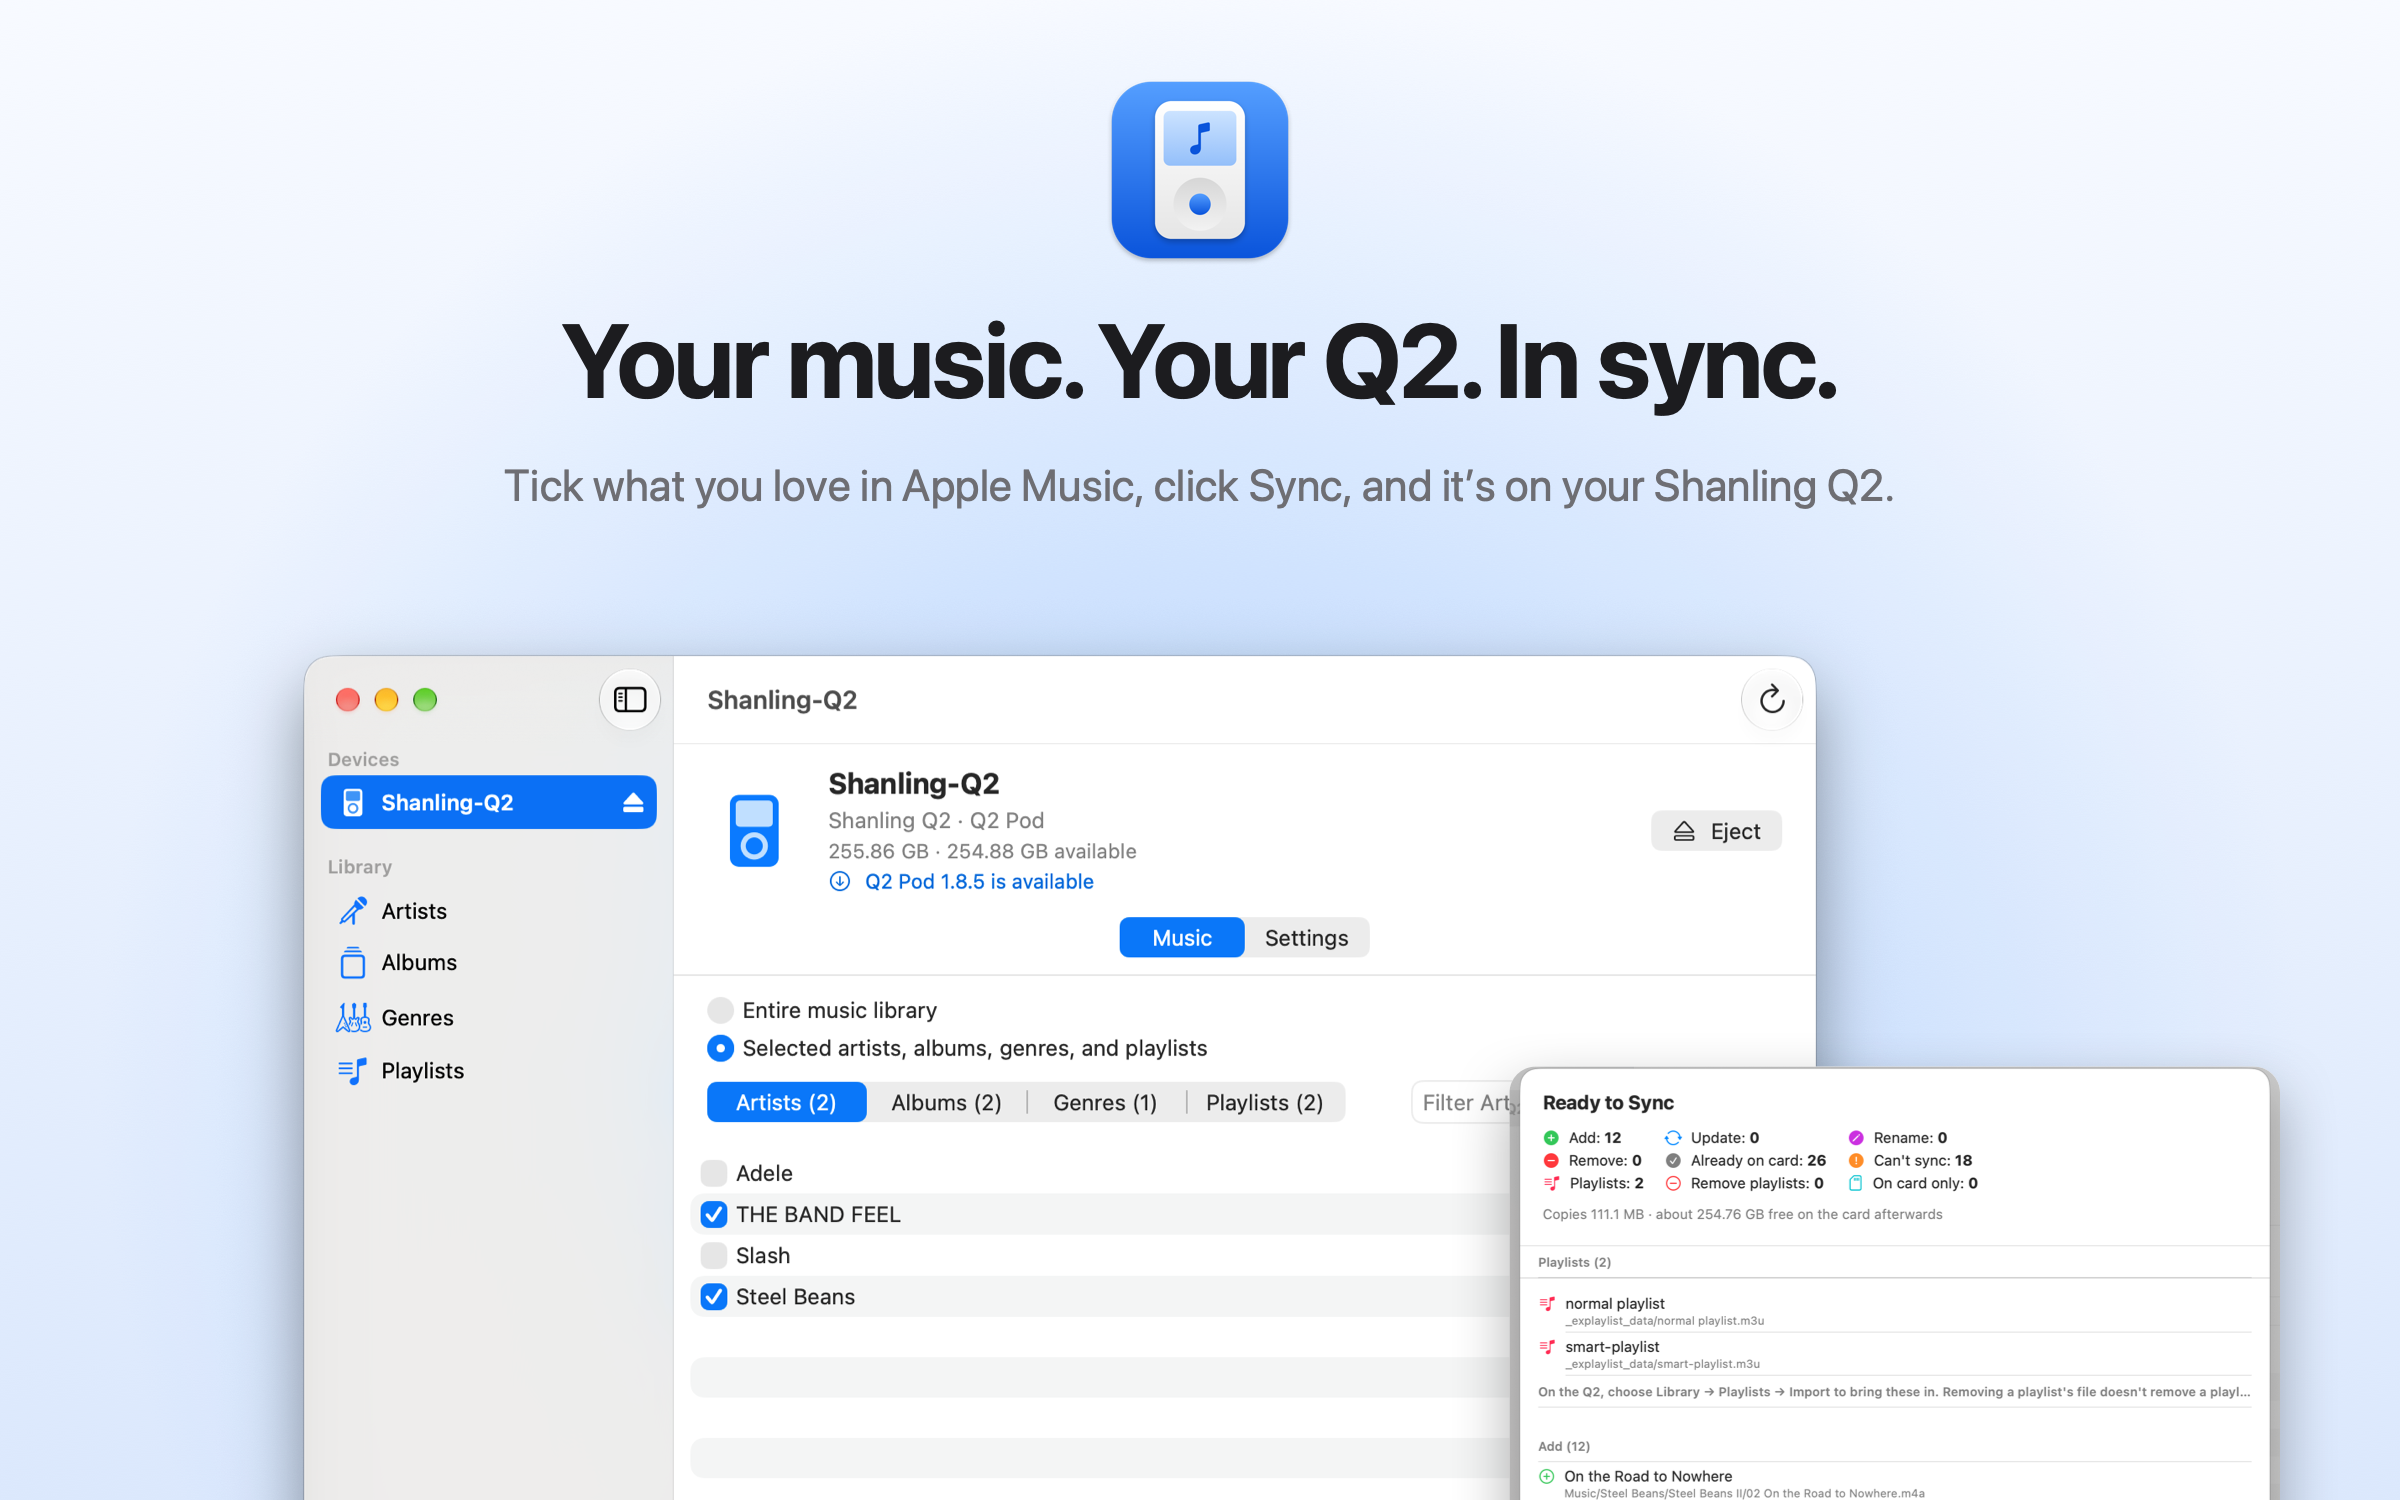
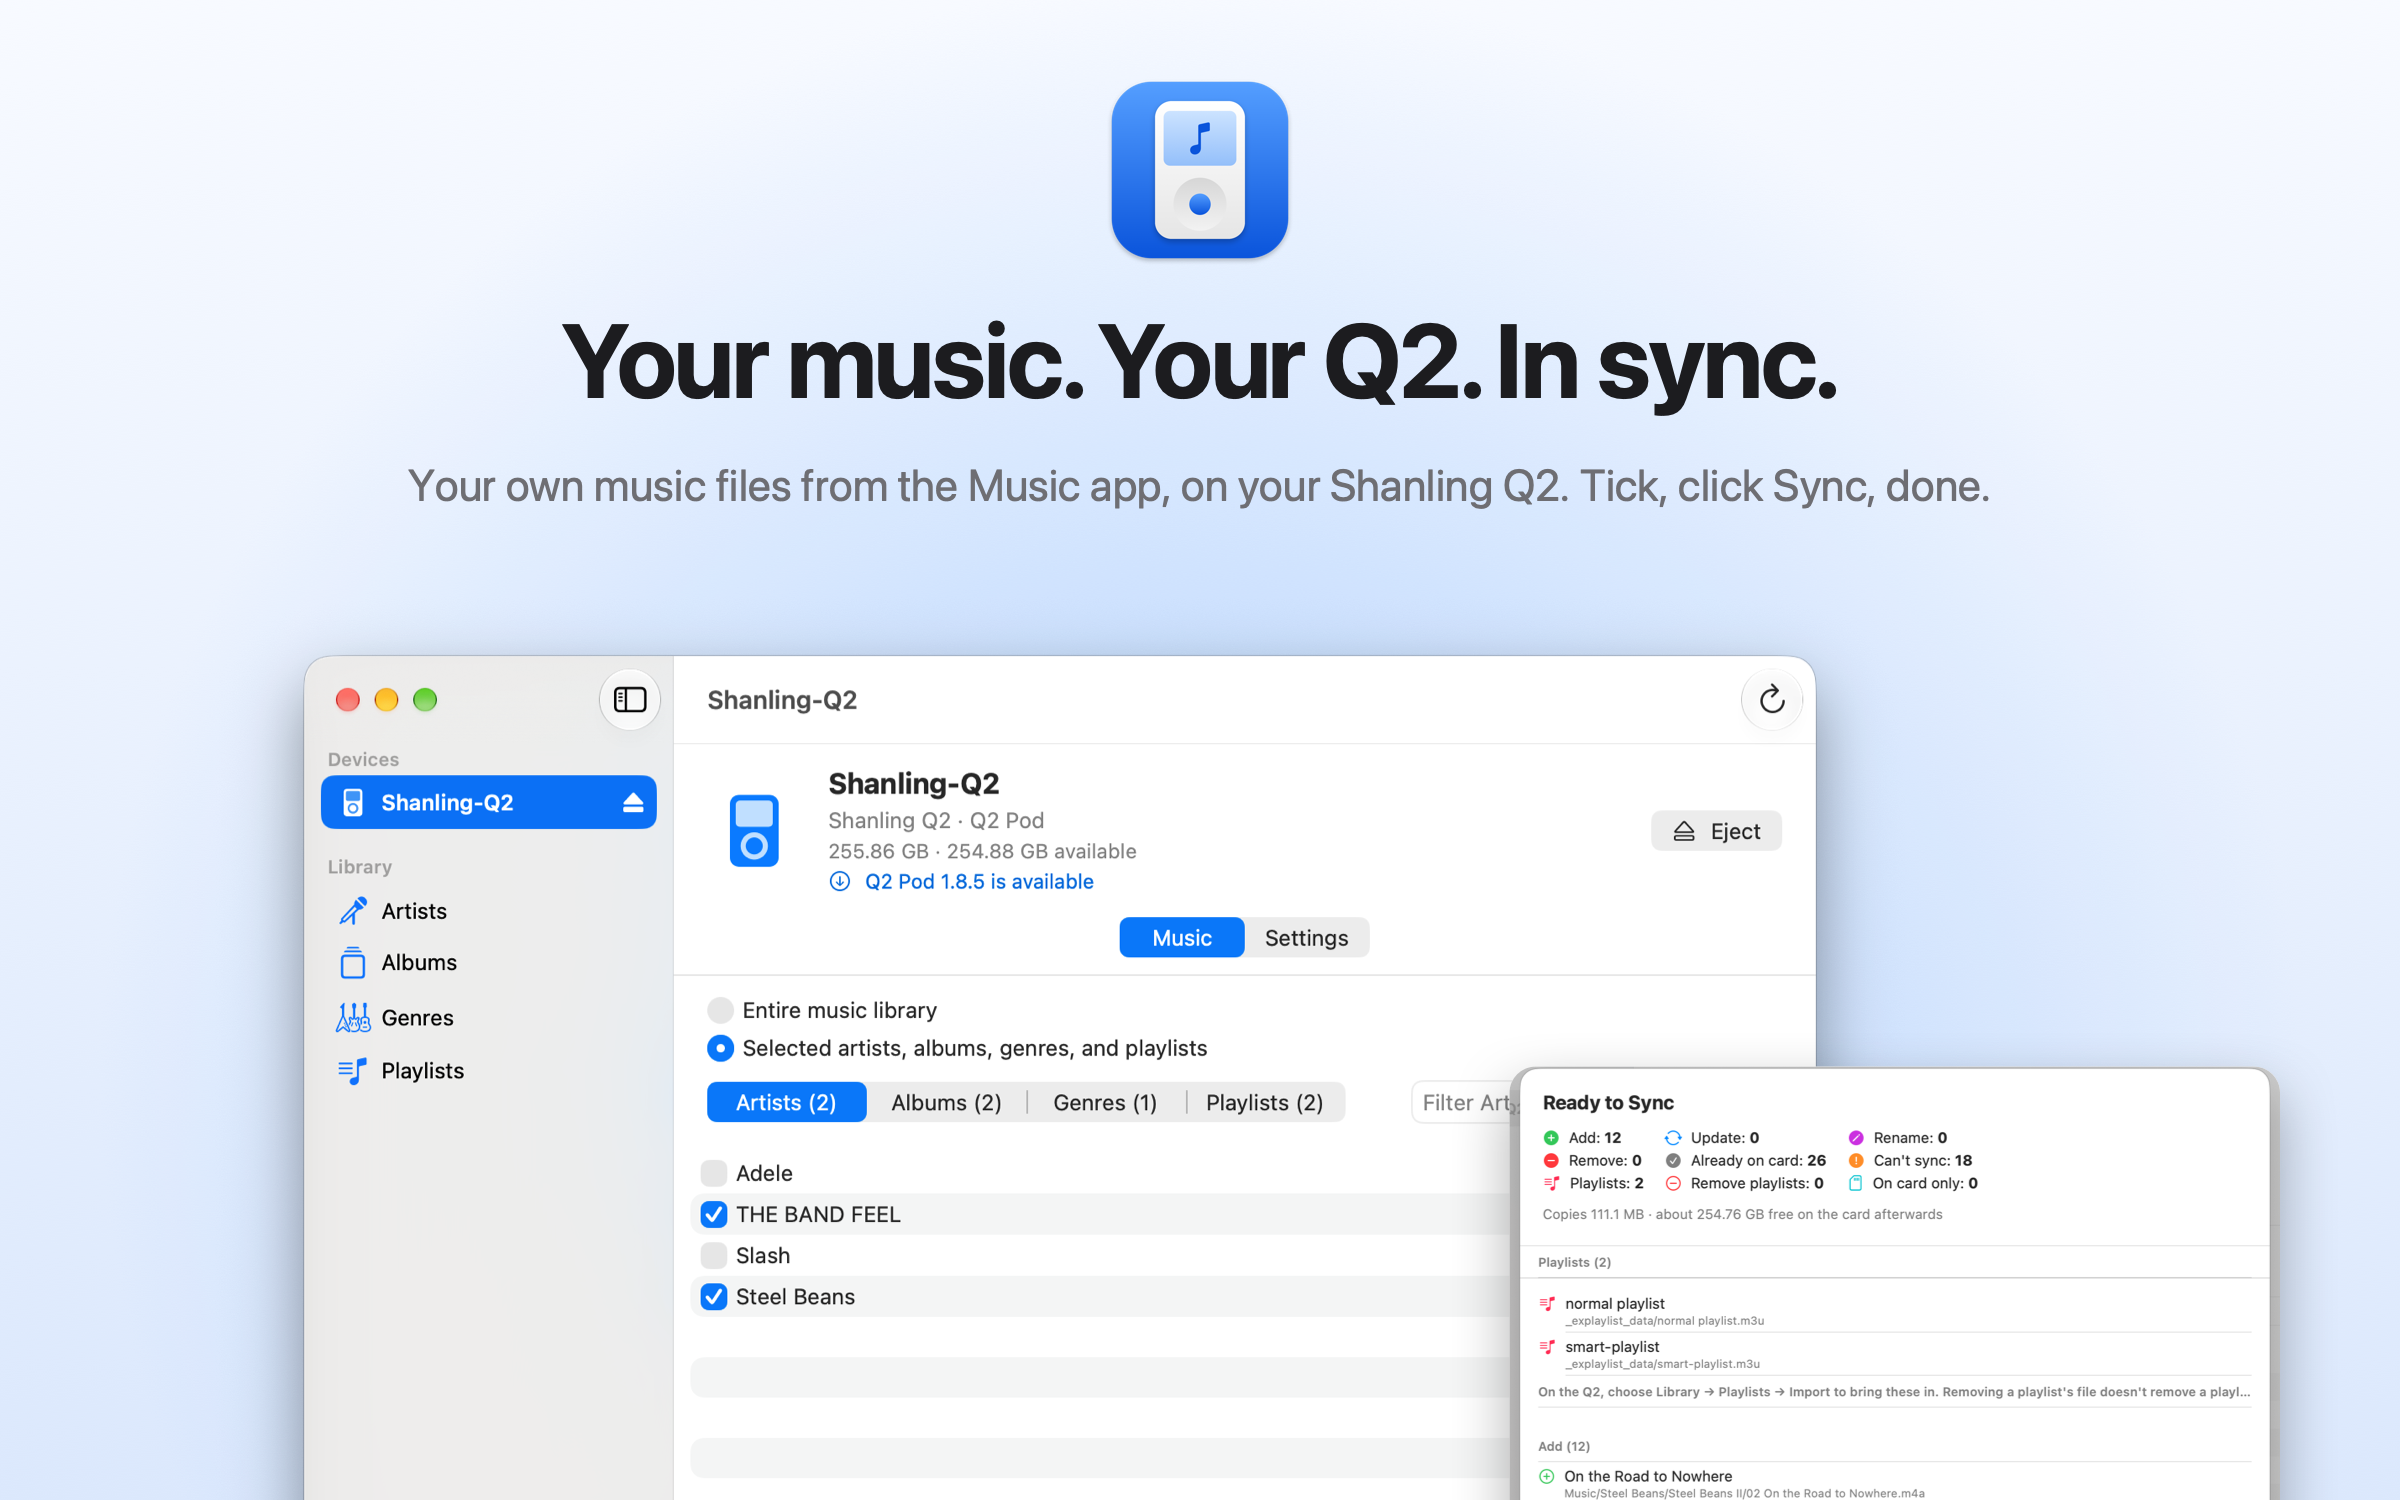
Make clear Q2 Sync copies local music files, not Apple Music subscription songs
README tagline, an Important callout and Requirements; User Guide intro and FAQ (subscription downloads stay DRM-protected); hero and social-preview taglines.

Changed region(s): [[0.1562, 0.3067, 0.8438, 0.3373]]

diff --git a/Scripts/make-readme-art.swift b/Scripts/make-readme-art.swift
@@ -91,7 +91,7 @@ render("hero.png", width: 2400, height: 1500) { r in
     icon.draw(in: NSRect(x: r.midX - iconSize / 2, y: r.maxY - 60 - iconSize, width: iconSize, height: iconSize))
     drawCentered("Your music. Your Q2. In sync.", font: font(104, .bold), color: ink,
                  midX: r.midX, y: r.maxY - 420, kern: -2)
-    drawCentered("Tick what you love in Apple Music, click Sync, and it’s on your Shanling Q2.",
+    drawCentered("Your own music files from the Music app, on your Shanling Q2. Tick, click Sync, done.",
                  font: font(44, .regular), color: subInk, midX: r.midX, y: r.maxY - 510)
 
     // The app window, bleeding off the bottom edge, with the sync sheet
@@ -128,7 +128,7 @@ render("social-preview.png", width: 1280, height: 640) { r in
     backdrop(r, glowAt: NSPoint(x: 1000, y: 200), radius: 700)
     icon.draw(in: NSRect(x: 70, y: 330, width: 210, height: 210))
     _ = wordmark(at: NSPoint(x: 90, y: 200), size: 112, color: ink)
-    let tag = NSAttributedString(string: "Sync Apple Music to your\nShanling Q2, the way Finder\nsyncs an iPod.",
+    let tag = NSAttributedString(string: "Sync your Mac’s music files\nto a Shanling Q2, the way\nFinder syncs an iPod.",
                                  attributes: [.font: font(34, .medium), .foregroundColor: subInk])
     tag.draw(in: NSRect(x: 96, y: 40, width: 560, height: 150))
     let winW: CGFloat = 820

diff --git a/README.md b/README.md
@@ -6,7 +6,11 @@
 </p>
 
 <p align="center">
-  <b>Sync your Apple Music library to a Shanling Q2, the way Finder syncs an iPod.</b>
+  <b>Sync the music files in your Mac's Music app to a Shanling Q2, the way Finder syncs an iPod.</b>
+</p>
+
+<p align="center">
+  Your own MP3, AAC, Apple Lossless, WAV and AIFF files · Not Apple Music subscription streams or downloads
 </p>
 
 <p align="center">
@@ -20,6 +24,18 @@
   <img src="docs/images/hero.png" alt="Q2 Sync showing a connected Shanling Q2 and the Ready to Sync preview" width="880">
 </p>
 
+> [!IMPORTANT]
+> **Q2 Sync copies music files you own, not the Apple Music subscription.**
+> It syncs songs stored as **local, DRM-free files** in the Music app's
+> library: music you've ripped from CDs, bought from the iTunes Store
+> (DRM-free since 2009), downloaded from Bandcamp or elsewhere, or added
+> yourself, in formats like MP3, AAC, Apple Lossless (ALAC), WAV and AIFF.
+> Songs from an **Apple Music subscription can't be synced**, even when
+> they're downloaded for offline listening: Apple protects them with DRM
+> so they only play inside Apple's apps. Songs that are only in iCloud
+> (not downloaded to your Mac) are skipped too. Q2 Sync lists all of these
+> under "can't be synced" so you always know what's left out.
+
 ---
 
 Remember plugging in an iPod? It showed up in the sidebar, you ticked the
@@ -27,9 +43,10 @@ music you wanted, clicked **Sync**, and that was it. Everything just stayed
 up to date.
 
 The Shanling Q2 is a wonderful little player, but on a Mac it's just a drive.
-No sidebar, no sync, no playlists. **Q2 Sync brings that iPod experience back.**
-Your Q2 appears in its own window the moment you plug it in. Choose your
-artists, albums, genres and playlists, preview exactly what will change, and
+No sidebar, no sync, no playlists. **Q2 Sync brings that iPod experience back** for
+the music collection you keep in the Music app. Your Q2 appears in its own
+window the moment you plug it in. Choose your artists, albums, genres and
+playlists, preview exactly what will change, and
 click Sync. Next time, only what's new is copied.
 
 It's a native Mac app built with SwiftUI, and it's built to feel like part of
@@ -39,7 +56,7 @@ and light and dark mode.
 ## Highlights
 
 ### 🎵 Pick your music, the familiar way
-Sync your **entire library**, or tick exactly the **artists, albums, genres and
+Sync your **entire library** of local music files, or tick exactly the **artists, albums, genres and
 playlists** you want. Add a new album by an artist you've ticked, and it
 syncs on its own.
 
@@ -132,8 +149,11 @@ the card, which you fix by syncing again.
 - Xcode 27.2 or later (to build)
 - A Shanling Q2 with a microSD card formatted **exFAT** or **FAT32**, set to
   **USB Storage** in its quick-access menu (or the card in a card reader)
-- Music stored as local files in Apple Music (cloud-only and DRM-protected
-  songs are listed but can't be copied)
+- Music stored as **local, DRM-free files** in the Music app (MP3, AAC,
+  Apple Lossless, WAV, AIFF). Apple Music subscription songs (DRM-protected,
+  even when downloaded), older protected iTunes Store purchases, and songs
+  only in iCloud are listed but can't be copied. Files are copied as they
+  are, without converting.
 
 ## Install
 

diff --git a/docs/USER_GUIDE.md b/docs/USER_GUIDE.md
@@ -4,6 +4,14 @@ Q2 Sync copies music from Apple Music on your Mac to your Shanling Q2, much like
 Finder used to sync an iPod. This guide walks you through everything, step by
 step. No technical knowledge needed.
 
+**What Q2 Sync can sync:** music stored as **local, DRM-free files** in the
+Music app on your Mac, such as MP3, AAC, Apple Lossless (ALAC), WAV and AIFF
+files you've ripped from CDs, bought (iTunes Store purchases have been
+DRM-free since 2009) or downloaded. **It can't sync songs from an Apple Music
+subscription**, even ones downloaded for offline listening, because Apple
+protects them with DRM so they only play in Apple's apps. Songs that are only
+in iCloud are skipped too. These are listed as "can't be synced".
+
 **The most important thing first:** Q2 Sync only *reads* your Apple Music
 library. It never changes, moves or deletes anything in your library or its
 music files. It only copies music **to** your Q2.
@@ -89,9 +97,10 @@ sync automatically next time.
 The bar at the bottom shows:
 
 - how many songs and how much space your selection uses;
-- **"can't be synced"**: click it to see songs that won't be copied, such as
-  songs only in iCloud (Q2 Sync never downloads them; download them in Music
-  first if you want them) and protected (DRM) songs;
+- **"can't be synced"**: click it to see songs that won't be copied: songs
+  only in iCloud (Q2 Sync never downloads them; if they're your own music,
+  download them in Music first) and protected (DRM) songs, which includes
+  every song from an Apple Music subscription;
 - the **capacity bar**: your music, music you've unticked, what this sync will
   add, other files, and free space. A warning appears if your selection won't
   fit.
@@ -371,8 +380,21 @@ your Music folder. It still makes sense to keep a backup of your Mac, as with
 any app.
 
 **Why are some songs "can't be synced"?**
-They're only in iCloud (not downloaded to your Mac) or protected by DRM. Q2 Sync
-never downloads songs. Download them in Music first if you want them on your Q2.
+They're either protected by DRM or only in iCloud (not downloaded to your Mac).
+
+- **Apple Music subscription songs** are always protected, even when you've
+  downloaded them for offline listening, so they can never be copied to a Q2
+  (or any other non-Apple player). The same goes for iTunes Store purchases
+  from before 2009 that were never upgraded to iTunes Plus.
+- **Your own music that's only in iCloud** (uploaded or matched through
+  iTunes Match or Sync Library) can be synced once it's on your Mac: download
+  it in Music first. Q2 Sync never downloads songs itself.
+
+**Does Q2 Sync work with an Apple Music subscription?**
+Only for the music files you own. Your subscription doesn't stop Q2 Sync from
+syncing your local, DRM-free files, but songs added from the Apple Music
+catalogue can't be copied. To get a song onto your Q2, buy it (the iTunes
+Store sells DRM-free files) or add your own copy to the Music app.
 
 **I unticked an album but it's still on my Q2.**
 Removals are always your choice. Tick **Remove the … songs you no longer sync**
